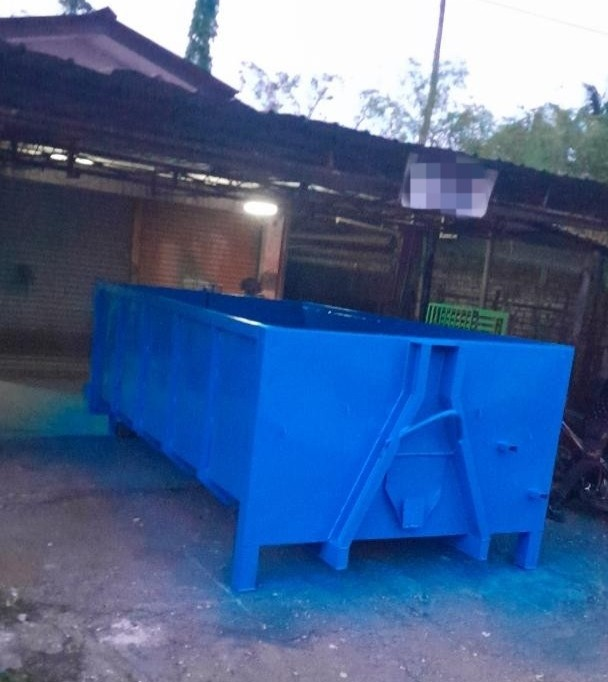
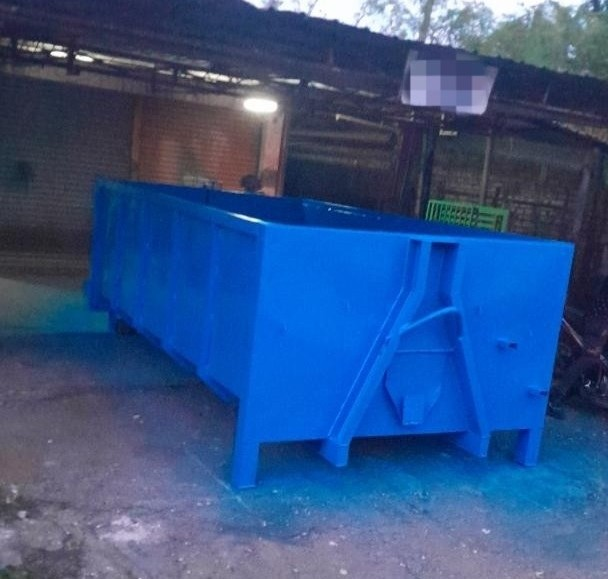
website updated

diff --git a/app/page.js b/app/page.js
@@ -1,9 +1,24 @@
 "use client";
 
-import { useState } from "react";
+import { useState, useEffect } from "react";
 
 export default function Home() {
   const [active, setActive] = useState("home");
+  const [scrolled, setScrolled] = useState(false);
+
+  useEffect(() => {
+  const handleScroll = () => {
+    if (window.scrollY > 80) {
+      setScrolled(true);
+    } else {
+      setScrolled(false);
+    }
+  };
+
+  window.addEventListener("scroll", handleScroll);
+
+  return () => window.removeEventListener("scroll", handleScroll);
+}, []);
 
   const [formData, setFormData] = useState({
     name: "",
@@ -33,19 +48,19 @@ Message: ${formData.message}`
     {
       title: "Steel Fabrication",
       desc: "Custom steel fabrication for residential, commercial and industrial needs.",
-      img: "/image1.jpg",
+      img: "/image2.jpg",
       icon: "🏗",
     },
     {
       title: "Welding Works",
       desc: "Reliable welding, repair and metal joining works.",
-      img: "/image2.jpg",
+      img: "/image10.jpg",
       icon: "🔥",
     },
     {
       title: "Awning & Roofing",
       desc: "ACP, PU metal awning, C roof and roof extension works.",
-      img: "/image3.jpg",
+      img: "/image14.jpg",
       icon: "🏠",
     },
     {
@@ -83,78 +98,86 @@ Message: ${formData.message}`
   const projects = [
     {
       title: "Steel Structure Work",
-      img: "/image9.jpg",
+      img: "/image13.jpg",
     },
     {
       title: "Awning & Roof Extension",
-      img: "/image3.jpg",
+      img: "/image18.jpg",
     },
     {
       title: "Welding & Fabrication",
-      img: "/image10.jpg",
+      img: "/image11.jpg",
     },
   ];
 
   return (
     <main className="min-h-screen bg-white text-[#06142b]">
       {/* NAVBAR */}
-      <header className="sticky top-0 z-50 bg-[#06142b] border-b border-[#d4af37]/40 shadow-xl">
-        <div className="max-w-7xl mx-auto px-4 md:px-6 py-3 flex flex-col lg:flex-row lg:items-center lg:justify-between gap-4">
-          <div className="flex items-center justify-center lg:justify-start gap-3">
-            <img
-              src="/logo.png"
-              alt="Rothary Steel Tech Engineering Logo"
-              className="h-14 sm:h-16 lg:h-20 w-auto object-contain"
-            />
+      <header
+  className={`fixed top-0 left-0 w-full z-50 transition-all duration-500 ${
+    scrolled
+      ? "bg-[#06142b]/95 backdrop-blur-md shadow-xl border-b border-[#d4af37]/30"
+      : "bg-transparent"
+  }`}
+>
+  <div className="max-w-7xl mx-auto px-4 md:px-6 py-3 flex flex-col lg:flex-row lg:items-center lg:justify-between gap-4">
 
-            <div className="text-center lg:text-left">
-              <h1 className="text-[#f8e08b] text-base sm:text-lg lg:text-2xl font-black tracking-wide leading-tight">
-                ROTHARY STEEL TECH
-                <br />
-                ENGINEERING
-              </h1>
-              <p className="text-white/90 text-xs sm:text-sm italic tracking-wide mt-1">
-                Precision in Every Structure
-              </p>
-            </div>
-          </div>
+    <div className="flex items-center justify-center lg:justify-start gap-3">
+      <img
+        src="/logo.png"
+        alt="Rothary Steel Tech Engineering Logo"
+        className="h-14 sm:h-16 lg:h-20 w-auto object-contain"
+      />
 
-          <nav className="flex flex-wrap justify-center items-center gap-3 sm:gap-4 lg:gap-3 px-2">
-            {[
-              ["home", "HOME"],
-              ["about", "ABOUT"],
-              ["services", "SERVICES"],
-              ["projects", "PROJECTS"],
-              ["contact", "CONTACT"],
-            ].map(([id, label]) => (
-              <a
-                key={id}
-                href={`#${id}`}
-                onClick={() => setActive(id)}
-                className={`px-4 py-2 rounded-full text-xs lg:text-sm font-bold tracking-wide transition ${
-                  active === id
-                    ? "bg-[#d4af37] text-black"
-                    : "text-[#f5d76e] hover:bg-white/10 hover:text-white"
-                }`}
-              >
-                {label}
-              </a>
-            ))}
-          </nav>
+      <div className="text-center lg:text-left">
+        <h1 className="text-[#f8e08b] text-base sm:text-lg lg:text-2xl font-black tracking-wide leading-tight">
+          ROTHARY STEEL TECH
+          <br />
+          ENGINEERING
+        </h1>
 
-          <a
-            href="#contact"
-            className="w-full lg:w-auto text-center bg-[#d4af37] hover:bg-[#f3d36b] text-black px-6 py-3 font-black rounded-full transition shadow-lg"
-          >
-            GET QUOTE
-          </a>
-        </div>
-      </header>
+        <p className="text-white/90 text-xs sm:text-sm italic tracking-wide mt-1">
+          Precision in Every Structure
+        </p>
+      </div>
+    </div>
+
+    <nav className="flex flex-wrap justify-center items-center gap-4 sm:gap-5 lg:gap-6 px-2">
+      {[
+        ["home", "HOME"],
+        ["about", "ABOUT"],
+        ["services", "SERVICES"],
+        ["projects", "PROJECTS"],
+        ["contact", "CONTACT"],
+      ].map(([id, label]) => (
+        <a
+          key={id}
+          href={`#${id}`}
+          onClick={() => setActive(id)}
+          className={`px-4 py-2 rounded-full text-xs lg:text-sm font-bold tracking-wide transition-all duration-300 ${
+            active === id
+              ? "bg-[#d4af37] text-black"
+              : "text-[#f5d76e] hover:bg-white/10 hover:text-white"
+          }`}
+        >
+          {label}
+        </a>
+      ))}
+    </nav>
+
+    <a
+      href="#contact"
+      className="w-full lg:w-auto text-center bg-[#d4af37] hover:bg-[#f3d36b] text-black px-6 py-3 font-black rounded-full transition shadow-lg"
+    >
+      GET QUOTE
+    </a>
+  </div>
+</header>
 
       {/* HERO */}
       <section
         id="home"
-        className="relative min-h-[88vh] flex items-center bg-cover bg-center"
+        className="relative min-h-[88vh] pt-44 flex items-center bg-cover bg-center"
         style={{ backgroundImage: "url('/image1.jpg')" }}
       >
         <div className="absolute inset-0 bg-gradient-to-r from-[#06142b]/95 via-[#06142b]/85 to-black/70"></div>
@@ -200,7 +223,7 @@ Message: ${formData.message}`
 
           <div className="hidden lg:block">
             <img
-              src="/image2.jpg"
+              src="/image3.jpg"
               alt="Steel welding work"
               className="w-full h-[480px] object-cover object-center rounded-3xl border-4 border-[#d4af37]/40 shadow-2xl"
             />
@@ -389,7 +412,7 @@ Message: ${formData.message}`
 
           {/* PROJECT PREVIEW IMAGES */}
           <div className="grid grid-cols-2 md:grid-cols-4 gap-4 mt-12">
-            {["/image1.jpg", "/image2.jpg", "/image3.jpg", "/image4.jpg"].map(
+            {["/image12.jpg", "/image15.jpg", "/image16.jpg", "/image20.jpg"].map(
               (img, index) => (
                 <div
                   key={index}
@@ -467,18 +490,33 @@ Message: ${formData.message}`
               </a>
             </div>
 
-            <div className="mt-10 pt-8 border-t border-white/10 text-center text-gray-300 space-y-3">
-              <p>
-                📍 Lot 4337, Batu 6, Jalan Maharajalela, Kampung Sri Jaya,
-                36000 Teluk Intan, Perak.
-              </p>
-              <p>📞 +60 11 3602 3592</p>
-              <p>✉ rotharysteeltechengineering@gmail.com</p>
-              <p>Service Area: Available across Malaysia.</p>
-            </div>
-          </div>
-        </div>
-      </section>
+            {/* GOOGLE MAP */}
+<div className="mt-10 rounded-3xl overflow-hidden shadow-xl border border-white/10">
+  <iframe
+    src="https://www.google.com/maps/embed?pb=!1m18!1m12!1m3!1d3980.339582749128!2d100.96669177497499!3d3.950229596023524!2m3!1f0!2f0!3f0!3m2!1i1024!2i768!4f13.1!3m3!1m2!1s0x31cb415a2cfccc9d%3A0x2592c7950c1acf53!2sRothary%20Steel%20Tech%20Engineering!5e0!3m2!1sen!2smy!4v1779567714298!5m2!1sen!2smy"
+    width="100%"
+    height="350"
+    style={{ border: 0 }}
+    allowFullScreen=""
+    loading="lazy"
+    referrerPolicy="no-referrer-when-downgrade"
+    className="w-full"
+  ></iframe>
+</div>
+
+{/* COMPANY INFO */}
+<div className="mt-10 pt-8 border-t border-white/10 text-center text-gray-300 space-y-3">
+  <p>
+    📍 Lot 4337, Batu 6, Jalan Maharajalela, Kampung Sri Jaya,
+    36000 Teluk Intan, Perak.
+  </p>
+
+  <p>📞 +60 11 3602 3592</p>
+
+  <p>✉ rotharysteeltechengineering@gmail.com</p>
+
+  <p>Service Area: Available across Malaysia.</p>
+</div>
 
       {/* FOOTER */}
       <footer className="bg-[#06142b] text-white text-center py-8 px-5 border-t-4 border-[#d4af37]">
@@ -540,18 +578,20 @@ Message: ${formData.message}`
       </footer>
 
       {/* FLOATING WHATSAPP BUTTON */}
-      <a
-        href="https://wa.me/601136023592"
-        target="_blank"
-        rel="noopener noreferrer"
-        className="fixed bottom-5 right-5 z-50 hover:scale-110 transition-transform duration-300"
-      >
-        <img
-          src="/whatsappicon.png"
-          alt="WhatsApp"
-          className="w-20 h-20 object-contain"
-        />
-      </a>
+<a
+  href={`https://wa.me/601136023592?text=${encodeURIComponent(
+    "Hi Rothary Steel Tech Engineering, I would like to request a quotation."
+  )}`}
+  target="_blank"
+  rel="noopener noreferrer"
+  className="fixed bottom-5 right-5 z-50 hover:scale-110 transition-transform duration-300"
+>
+  <img
+    src="/whatsappicon.png"
+    alt="WhatsApp"
+    className="w-20 h-20 object-contain"
+  />
+</a>
     </main>
   );
 }
